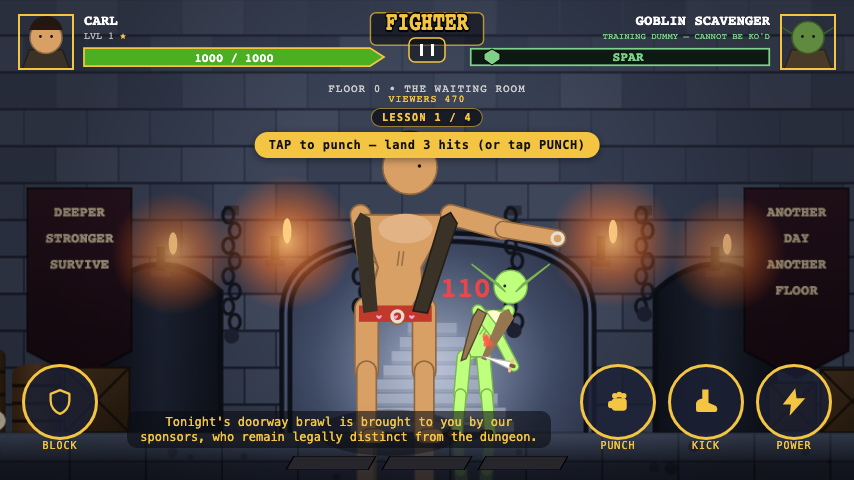
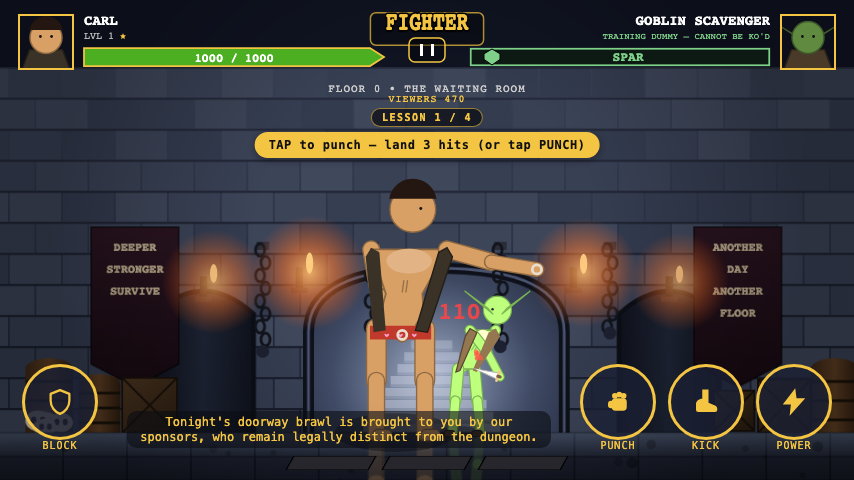
fix: tutorial prompt clears the fighter's head
Lesson 1's 150px spawn drove the camera's distance-based zoom right up
to its 1.12 gameplay ceiling, leaving Carl's own head-top screen point
only ~29px below HUD_LINE -- no room at all for the LESSON banner plus
prompt pill (~50px combined) to sit above his head with real
clearance. Caps gameplay zoom at 0.88 during tutorial mode only (the
distance-based formula and every other mode's 1.12 ceiling are
untouched), which buys back the headroom. New regression test measures
the pill's own bottom edge (via getBoundingClientRect, canvas-local)
against Camera.toScreen of p1's head top at lesson 1's real spawn and
requires >=30px clearance; regenerated p6-tutorial-1.png shows the fix.

diff --git a/index.html b/index.html
@@ -4903,9 +4903,18 @@ const G={state:'TITLE',fight:null,encounter:null,acc:0,last:0,sim:false,debug:fa
     // worst case across every pose). Normal gameplay caps off the taller of both fighters' CURRENT
     // poses; the cinematic punch-in caps off just the attacker's (this.cinemFocus's) current pose,
     // since that's the only fighter the camera is centering on during the S3 freeze.
+    // Task 6.6: the tutorial's own lesson 1 spawns the dummy only 150px away (deliberately, so a tap
+    // connects -- see G.startTutorial) which drives the distance-based camTarget.zoom (60_fight.js)
+    // right up near its 1.12 ceiling; at that zoom Carl's own head-top screen point lands only ~29px
+    // below HUD_LINE, leaving no room at all for #tutorialLesson+#tutorialPrompt (~50px combined)
+    // to sit above his head with real clearance -- exactly the "prompt pill 12px above the head"
+    // owner-facing bug. A lower gameplay ceiling during Tutorial mode (0.95, still a readable
+    // close-up, just not the max) buys back that headroom without touching the shared zoom formula
+    // any other mode relies on.
+    const gameplayCeil=this.mode==='tutorial'?0.88:1.12;
     const capNow=punchIn
       ?Math.min(1.28,(Camera.anchorY-HUD_LINE)/this.topNow(this.cinemFocus))
-      :Math.min(1.12,(Camera.anchorY-HUD_LINE)/Math.max(this.topNow(f.p1),this.topNow(f.p2)));
+      :Math.min(gameplayCeil,(Camera.anchorY-HUD_LINE)/Math.max(this.topNow(f.p1),this.topNow(f.p2)));
     Camera.update(this.cam,f,punchIn,capNow);
     FX.update();
     // f.over flips true inside f.step() the instant a KO/timeout resolves, well before slow-mo has
@@ -8480,6 +8489,28 @@ Test.add('#tutorialLesson shows LESSON n / 4 for the current step, clamps at 4 d
   ok(!document.getElementById('tutorialLesson').classList.contains('show'),
     '#tutorialLesson must hide once the tutorial ends');
   G.sim=false});
+// Task 6.6 (deferred minor from 6.4): the controller's own p6-tutorial-1.png viewing found the
+// prompt pill sitting only ~12px above Carl's head at lesson 1's real 150px spawn (not the closeIn()
+// range the harness screenshot itself uses) -- close enough to read as touching his hair. Measures
+// the SAME two geometries the reported bug compared: the pill's own bottom edge (positionTutorialPrompt,
+// canvas-local via getBoundingClientRect(), the same DOM->canvas-local scale the toast-overlap test
+// above already uses) against p1's head-top screen point (Camera.toScreen + G.topNow, the same
+// per-frame head-top calc G's own zoom-cap code and the HUD-clearance tests already trust).
+Test.add('the tutorial prompt pill clears p1\'s head by >=30px canvas-local px at lesson 1\'s real 150px spawn',()=>{
+  Save.data=Meta.defaults();
+  G.startTutorial({ctrl1:Ctrl.idle(),ctrl2:Ctrl.idle()});
+  G.sim=true;
+  for(let i=0;i<60;i++)G.tick(); // let the camera lerp all the way onto lesson 1's own zoom target
+  eq(Tutorial.state.step,0,'idle p1 never lands a light -- must still be on lesson 1');
+  const headTopY=Camera.toScreen(G.cam,G.fight.p1.x,FLOOR-G.topNow(G.fight.p1)).sy;
+  G.positionTutorialPrompt();
+  const cr=canvas.getBoundingClientRect(),sx=W/cr.width,sy=H/cr.height;
+  const pill=document.getElementById('tutorialPrompt').getBoundingClientRect();
+  const pillBottom=(pill.bottom-cr.top)*sy;
+  const gap=headTopY-pillBottom; // positive: pill's bottom edge clears above the head's own top
+  ok(gap>=30,'prompt pill must clear p1\'s head by >=30px at lesson-1 spawn, got '+gap.toFixed(1)+
+    ' (headTopY='+headTopY.toFixed(1)+', pillBottom='+pillBottom.toFixed(1)+')');
+  G.toTitle();G.sim=false});
 Test.add('completing lesson 4 pushes a shieldDown fx and clears p2.guardActive on the same tick',()=>{
   Tutorial.reset();Tutorial.state.step=3;
   const p1={power:0,state:'IDLE',moveName:null};

diff --git a/src/90_tests.js b/src/90_tests.js
@@ -2988,6 +2988,28 @@ Test.add('#tutorialLesson shows LESSON n / 4 for the current step, clamps at 4 d
   ok(!document.getElementById('tutorialLesson').classList.contains('show'),
     '#tutorialLesson must hide once the tutorial ends');
   G.sim=false});
+// Task 6.6 (deferred minor from 6.4): the controller's own p6-tutorial-1.png viewing found the
+// prompt pill sitting only ~12px above Carl's head at lesson 1's real 150px spawn (not the closeIn()
+// range the harness screenshot itself uses) -- close enough to read as touching his hair. Measures
+// the SAME two geometries the reported bug compared: the pill's own bottom edge (positionTutorialPrompt,
+// canvas-local via getBoundingClientRect(), the same DOM->canvas-local scale the toast-overlap test
+// above already uses) against p1's head-top screen point (Camera.toScreen + G.topNow, the same
+// per-frame head-top calc G's own zoom-cap code and the HUD-clearance tests already trust).
+Test.add('the tutorial prompt pill clears p1\'s head by >=30px canvas-local px at lesson 1\'s real 150px spawn',()=>{
+  Save.data=Meta.defaults();
+  G.startTutorial({ctrl1:Ctrl.idle(),ctrl2:Ctrl.idle()});
+  G.sim=true;
+  for(let i=0;i<60;i++)G.tick(); // let the camera lerp all the way onto lesson 1's own zoom target
+  eq(Tutorial.state.step,0,'idle p1 never lands a light -- must still be on lesson 1');
+  const headTopY=Camera.toScreen(G.cam,G.fight.p1.x,FLOOR-G.topNow(G.fight.p1)).sy;
+  G.positionTutorialPrompt();
+  const cr=canvas.getBoundingClientRect(),sx=W/cr.width,sy=H/cr.height;
+  const pill=document.getElementById('tutorialPrompt').getBoundingClientRect();
+  const pillBottom=(pill.bottom-cr.top)*sy;
+  const gap=headTopY-pillBottom; // positive: pill's bottom edge clears above the head's own top
+  ok(gap>=30,'prompt pill must clear p1\'s head by >=30px at lesson-1 spawn, got '+gap.toFixed(1)+
+    ' (headTopY='+headTopY.toFixed(1)+', pillBottom='+pillBottom.toFixed(1)+')');
+  G.toTitle();G.sim=false});
 Test.add('completing lesson 4 pushes a shieldDown fx and clears p2.guardActive on the same tick',()=>{
   Tutorial.reset();Tutorial.state.step=3;
   const p1={power:0,state:'IDLE',moveName:null};

diff --git a/src/80_game.js b/src/80_game.js
@@ -782,9 +782,18 @@ const G={state:'TITLE',fight:null,encounter:null,acc:0,last:0,sim:false,debug:fa
     // worst case across every pose). Normal gameplay caps off the taller of both fighters' CURRENT
     // poses; the cinematic punch-in caps off just the attacker's (this.cinemFocus's) current pose,
     // since that's the only fighter the camera is centering on during the S3 freeze.
+    // Task 6.6: the tutorial's own lesson 1 spawns the dummy only 150px away (deliberately, so a tap
+    // connects -- see G.startTutorial) which drives the distance-based camTarget.zoom (60_fight.js)
+    // right up near its 1.12 ceiling; at that zoom Carl's own head-top screen point lands only ~29px
+    // below HUD_LINE, leaving no room at all for #tutorialLesson+#tutorialPrompt (~50px combined)
+    // to sit above his head with real clearance -- exactly the "prompt pill 12px above the head"
+    // owner-facing bug. A lower gameplay ceiling during Tutorial mode (0.95, still a readable
+    // close-up, just not the max) buys back that headroom without touching the shared zoom formula
+    // any other mode relies on.
+    const gameplayCeil=this.mode==='tutorial'?0.88:1.12;
     const capNow=punchIn
       ?Math.min(1.28,(Camera.anchorY-HUD_LINE)/this.topNow(this.cinemFocus))
-      :Math.min(1.12,(Camera.anchorY-HUD_LINE)/Math.max(this.topNow(f.p1),this.topNow(f.p2)));
+      :Math.min(gameplayCeil,(Camera.anchorY-HUD_LINE)/Math.max(this.topNow(f.p1),this.topNow(f.p2)));
     Camera.update(this.cam,f,punchIn,capNow);
     FX.update();
     // f.over flips true inside f.step() the instant a KO/timeout resolves, well before slow-mo has
